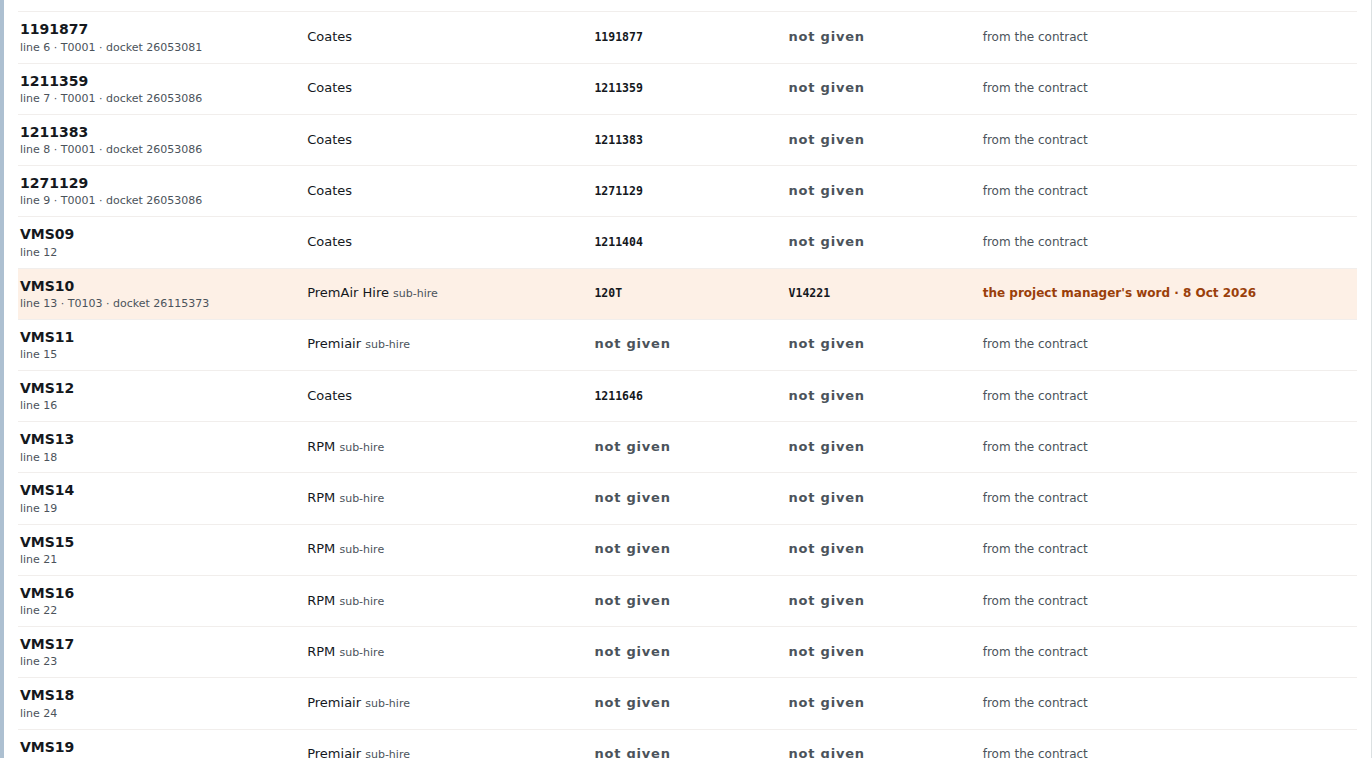
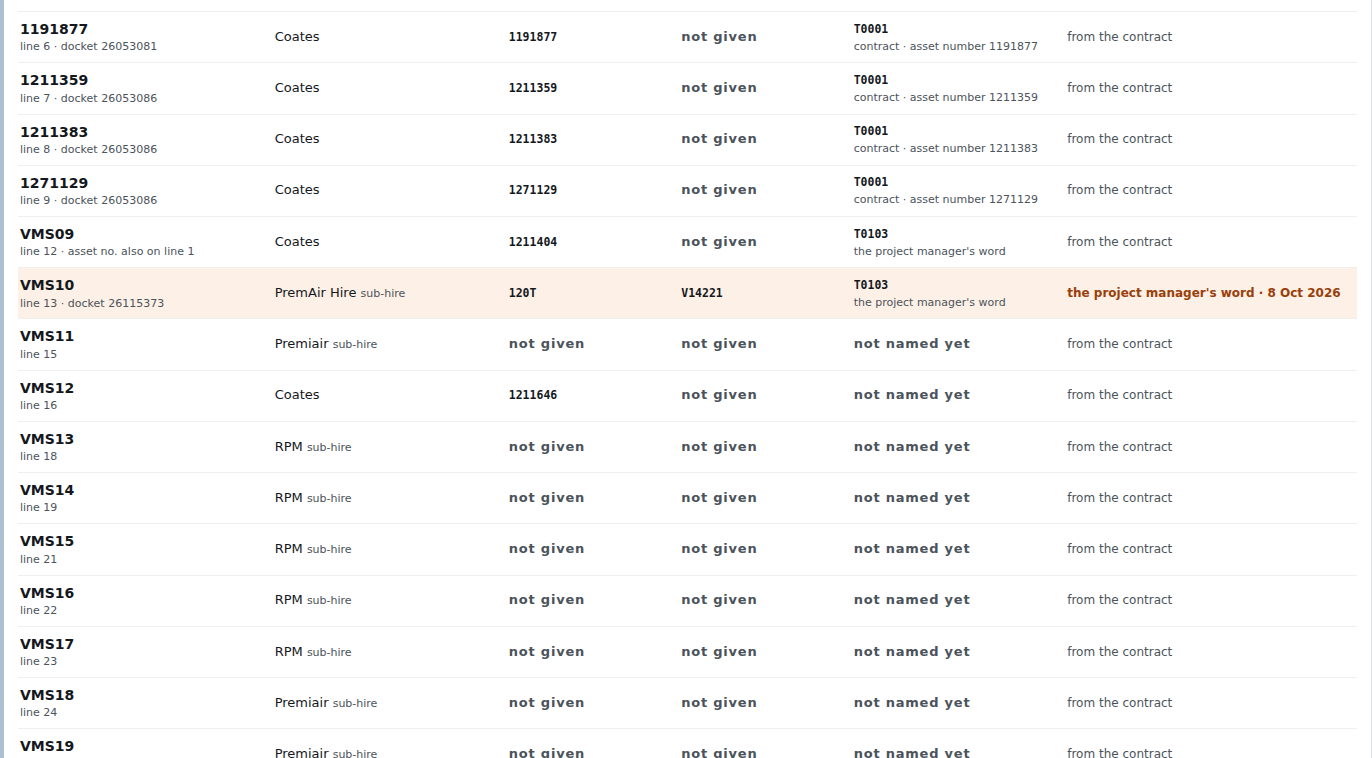
WIP: builds in progress: VMS rego (T0103 boards), part E (not READY)
Claude-Session: https://claude.ai/code/session_01BQwk5iUoysfHRmoPUtnkBd

diff --git a/03_GC500_Delivery_Control/v9.00_crew_vms_counts_DRAFT/patch_v900_lines.py b/03_GC500_Delivery_Control/v9.00_crew_vms_counts_DRAFT/patch_v900_lines.py
@@ -11,18 +11,30 @@
 # rows (T0101 FWF, T0259 Pee Panel) onto the supplier's load and left the toilet blocks (T0102) on Thu 8 Oct. Event Portables
 # units carry no Coates number.
 #
-# The rule (one change, in lineNumbersOf's automatic deal only):
-#   a line whose schedule row the page carries on an Event Portables load (v8.86: date_correction.plan886 on a row of that
-#   item) takes no Coates number in the automatic deal. Everything else stands: a person's choice ("counts as" on the Change
-#   form) is placed first and always wins; v7.68's noted waste tanks next; the rest by room, biggest order first, an ancillary
-#   line losing a tie. Where every line of a reference is on an Event Portables load, nothing is excluded (no number is ever
-#   left without a line). The page cannot tell a supplier any other way per line, so nothing else is excluded.
+# The rule (in lineNumbersOf's automatic deal only):
+#   a line whose every schedule row the page carries on an Event Portables load (v8.86: date_correction.plan886 on each
+#   non-removed row of that item) takes no Coates number (v7.36 locNums: 5 to 8 digits) in the automatic deal, while a line
+#   that can take it has room. A line with a Coates row beside an Event Portables row (WC67's FWF: T0081 and T0262) is not
+#   one the page can tell, so it is not passed over. A number that is not a Coates number, and any number once the Coates
+#   lines are full, goes by v7.32's room order as before (a line counted as none takes none, never more than the order while
+#   another line has room). Everything else stands: a person's choice ("counts as" on the Change form) is placed first and
+#   always wins; v7.68's noted waste tanks next; the rest by room, biggest order first, an ancillary line losing a tie. Where
+#   every line of a reference is on an Event Portables load, nothing is excluded (no number is ever left without a line).
+#
+# And one read that keeps a record showing: a door side recorded against a line before its units were numbered (WC09:
+#   "Toilet Block 6m" loads passenger side, recorded 7 Oct) reads for each numbered unit of that line until the unit has its
+#   own (loading872Side). Scoped to a reference with an Event Portables line, so only WC09 changes; WC86's unread side
+#   (item:Accessible Toilet "not applicable", unread since 1296899 was typed, already so on the base) is for the project
+#   manager, not this patch.
+#
 #   "Ancillary lines dealt last" was surveyed and not taken: on its own it hands WC09's two numbers to FWF (also wrong), and
 #   with the rule above it changes nothing on the record. The smallest rule that is right is this one.
 #
-# Survey (live v9.10, record 4504, read-only): eight references carry more than one charge-line item (WC01, WC05, WC09, WC20,
-# WC27, WC31, WC51, WC60). Under this rule only WC09's split changes. The patch refuses to run if DATA carries another
-# multi-item reference with an Event Portables row on some lines and not others - look at it before shipping.
+# Survey (live v9.10, record 4504; rechecked on record 4508 across all 182 references, read-only): eight references carry
+# more than one charge-line item (WC01, WC05, WC09, WC20, WC27, WC31, WC51, WC60). Under this rule only WC09's split changes,
+# and only WC09's door-side rows. The patch refuses to run if DATA carries another multi-item reference with an Event
+# Portables line beside others - look at it before shipping. (The guard runs at build only; a later data release must
+# rerun it.)
 #
 # Not touched: DATA, the record (read-only), money code, labour keys, the Change form, the footer, every other script
 # (StaffNames910 included).
@@ -45,7 +57,7 @@ assert json.dumps(D, ensure_ascii=False, separators=(',', ':')) == body, 'DATA d
 if 'function epLine909(' in s:
     sys.exit('v9.09 lines part already applied')
 for f in ('function lineNumbersOf(', 'function labourUnits(', 'function ep886Corrected(', 'function lineItemMatch(',
-          'const LAB_ANCILLARY = '):
+          'const LAB_ANCILLARY = ', 'function loading872Side(', 'function loading872Rows(', 'function loading872Record('):
     assert s.count(f) == 1, f'the base must carry {f} once'
 FOOT = re.findall(r" · v(\d+)\.(\d+)'; /\* v8\.19", s)   # the base's own release marker; read, never changed here
 assert len(FOOT) == 1 and (int(FOOT[0][0]), int(FOOT[0][1])) >= (9, 8), f'the base must carry one release footer, v9.08 or later (found {FOOT})'
@@ -59,8 +71,9 @@ def lm(item, label):
 
 
 def ep_line(a, item):
-    return any(e and e.get('movement') != 'remove' and (e.get('date_correction') or {}).get('plan886')
-               and (e.get('item') == item or lm(item, e.get('item'))) for e in a.get('events') or [])
+    # mirrors epLine909: every non-removed row of the item is a v8.86 plan row (a mixed line is not one the page can tell)
+    rows = [e for e in a.get('events') or [] if e and e.get('movement') != 'remove' and (e.get('item') == item or lm(item, e.get('item')))]
+    return bool(rows) and all((e.get('date_correction') or {}).get('plan886') for e in rows)
 
 
 MIXED = {}
@@ -81,10 +94,12 @@ s = rep(s, """ room.sort((x, y) => y.o - x.o || (LAB_ANCILLARY.test(x.item) ? 1 
  nums.filter(n => !taken.has(n)).forEach(n => { const r = room.find(x => x.left > 0) || room[0]; out[r.item].push(n); r.left--; });
  return out;
 }""", """ room.sort((x, y) => y.o - x.o || (LAB_ANCILLARY.test(x.item) ? 1 : 0) - (LAB_ANCILLARY.test(y.item) ? 1 : 0) || x.i - y.i);
- /* v9.09 - a line the plan carries on an Event Portables load takes no Coates number here (WC09: the two 6 m blocks' numbers
+ /* v9.09 - a line the plan carries wholly on an Event Portables load takes no Coates number here (WC09: the two 6 m blocks' numbers
  are the blocks', not the pee panels'); a person's choice above still wins, and a reference with nothing else keeps every line */
  const pool909 = room.filter(x => !epLine909(a, x.item)), deal = pool909.length ? pool909 : room;
- nums.filter(n => !taken.has(n)).forEach(n => { const r = deal.find(x => x.left > 0) || deal[0]; out[r.item].push(n); r.left--; });
+ /* a Coates number (v7.36 locNums: 5 to 8 digits) goes to a line that can take it while one has room; anything else, and any
+ number once those are full, by v7.32's room order (a line counted as none takes none while another has room) */
+ nums.filter(n => !taken.has(n)).forEach(n => { const r = (/^\\d{5,8}$/.test(n) ? deal : room).find(x => x.left > 0) || room.find(x => x.left > 0) || room[0]; out[r.item].push(n); r.left--; });
  return out;
 }
 /* v9.09 - Author: Andrew Fisher. A COATES NUMBER GOES TO A LINE IT CAN BE. the project manager, 8 Oct 2026, on WC09: "We need to
@@ -92,18 +107,25 @@ s = rep(s, """ room.sort((x, y) => y.o - x.o || (LAB_ANCILLARY.test(x.item) ? 1 
  WC09 orders 4 FWF, 6 pee panels and 2 Toilet Block 6m; its two recorded numbers, 1268858 and 1311146, are the two 6 m blocks.
  Dealt biggest order first, both went to the pee panels, so the blocks had one set of ticks for the reference. The FWF and pee
  panels are Event Portables Load 1 (v8.86 moved exactly those rows onto the supplier's load), and Event Portables units carry
- no Coates number. So a line with a schedule row on an Event Portables load is passed over when numbers nobody placed are dealt
- out. The page tells this from the row the plan moved and nothing else: a line it cannot tell is not passed over. */
+ no Coates number. So a line whose schedule rows are on an Event Portables load is passed over when Coates numbers nobody placed
+ are dealt out. The page tells this from the rows the plan moved and nothing else: a line counts only when every row of its item is on
+ the supplier's load; a line with a Coates row beside one (WC67's FWF) is one it cannot tell, and is not passed over. */
 function epLine909(a, item){
- return ((a && a.events) || []).some(e => e && e.movement !== 'remove' && e.date_correction && e.date_correction.plan886
-  && (e.item === item || lineItemMatch(item, e.item)));
+ const rows = ((a && a.events) || []).filter(e => e && e.movement !== 'remove' && (e.item === item || lineItemMatch(item, e.item)));
+ return rows.length > 0 && rows.every(e => e.date_correction && e.date_correction.plan886);
 }""", 'lineNumbersOf: the automatic deal', p)
 
-# ---- the proof: DATA is the base's, byte for byte, the footer is untouched, the helper is defined once and read once
+# ---- 2. loading872Side: a door side recorded against the line reads for its numbered units (nothing recorded is hidden)
+s = rep(s, """function loading872Side(a,id){const m=loading872Record(a.key);return (m[id]&&m[id].side)||'';}""",
+"""function loading872Side(a,id){const m=loading872Record(a.key);if(m[id])return m[id].side||''; /* v9.09 - Author: Andrew Fisher. A door side recorded against a line before its units were numbered (WC09: Toilet Block 6m, passenger side, recorded 7 Oct) reads for each numbered unit of that line until the unit has its own; a unit's own side, set or cleared, wins. Only where the v9.09 deal applies (a reference with an Event Portables line), so no other reference changes */ if(!/^u/.test(String(id))||!chargeLines(a).some(l=>l.item&&epLine909(a,l.item)))return ''; const r=loading872Rows(a).find(x=>x.id===id),it=r&&m['item:'+r.item];return (it&&it.side)||'';}""", 'loading872Side: a line\'s door side reads for its units', p)
+
+# ---- the proof: DATA is the base's, byte for byte, the footer is untouched, the helper is defined once and read twice
 i2 = s.find('const DATA = '); j2 = s.find('\n', i2)
 assert s[i2:j2] == line and s.count('const DATA = ') == 1, 'DATA changed - stopping'
 assert re.findall(r" · v(\d+)\.(\d+)'; /\* v8\.19", s) == FOOT, 'the footer changed - stopping'
-assert s.count('function epLine909(') == 1 and s.count('epLine909(a, x.item)') == 1, 'epLine909 is defined once and read once'
+assert s.count('function epLine909(') == 1 and s.count('epLine909(a, x.item)') == 1 and s.count('epLine909(a,l.item)') == 1, \
+    'epLine909 is defined once and read twice (the deal, the door side)'
 open(p, 'w', encoding='utf-8').write(('' if bom else '') + s)
 print(f'v9.09 lines part on base v{FOOT[0][0]}.{FOOT[0][1]}: Event Portables lines beside others {sorted(MIXED)}; '
-      f'lineNumbersOf deals Coates numbers past them (1 page edit, 1 helper); DATA and footer unchanged')
+      f'lineNumbersOf deals Coates numbers past them, loading872Side reads a line\'s door side for its units (2 page edits, 1 helper); '
+      f'DATA and footer unchanged')

diff --git a/03_GC500_Delivery_Control/v9.13_vms_rego_DRAFT/patch_v913_vms_rego.py b/03_GC500_Delivery_Control/v9.13_vms_rego_DRAFT/patch_v913_vms_rego.py
@@ -19,8 +19,8 @@
 #    opening, viewing or printing;
 #  - a board is on a delivery by (in this order) the record, the project manager's word, or the contract (the line's match
 #    by asset number or delivery docket). Nothing is guessed: a VMS delivery no board is linked to says "boards not named yet";
-#  - the boards BY NAME, with fleet number and rego, wherever a VMS delivery is shown: the Timeline load card, the delivery
-#    cards (Timeline and Today), the drawer's Delivery card, the driver drop card, the printed drop sheet, the Drivers and
+#  - the boards BY NAME, with fleet number and rego, wherever a VMS delivery is shown: the Timeline load card and its
+#    "Every day" row, the delivery cards (Timeline and Today), the drawer's Delivery card, the driver drop card, the printed drop sheet, the Drivers and
 #    Install PDFs (run sheets), the installers' daily page, and the driver's text (short and full).
 # The VMS plan reconciliation (VMS001-26003-01, 24 numbered boards) stays open with the project manager; nothing is renumbered.
 #
@@ -35,7 +35,7 @@ if 'function vms913Mount(' in text or 'vmsboard' in text:
     sys.exit('v9.13 is already applied - stopping')
 for need in ('function subhire744One(', 'function eq796(', 'function eq796Fold(', 'const SYNC_COLLS = {', 'function mergeRecords(',
              'function plantLineOf(', 'function text747What(', 'function dropText(', 'function deliveryCard(', 'function daily821Model(',
-             'function bookingNosLine801(', 'function loading872AssetHtml(', 'function dpTruckBefore801(', 'StaffNames910'):
+             'function bookingNosLine801(', 'function loading872AssetHtml(', 'function dpTruckBefore801(', 'function dayRows(', 'StaffNames910'):
     if need not in text:
         sys.exit('the base is missing ' + need + ' - stopping')
 
@@ -312,9 +312,14 @@ LATE = r'''<script id="vms913-script">
  const tl = loading872AssetHtml; loading872AssetHtml = function(a){ const h = tl.apply(this, arguments); try { return h + vms913LoadHtml(a, 'tl'); } catch (e) { return h; } };
  /* the delivery cards (Timeline loads opened, Today): under "Asset no." */
  const nos = bookingNosLine801; bookingNosLine801 = function(a){ const h = nos.apply(this, arguments); try { const L = vms913LoadHtml(a, 'dc'); return L ? (h || '<span class="todo">none supplied</span>') + '<br>' + L : h; } catch (e) { return h; } };
- /* the drawer's Delivery card, under its heading */
- const dc = deliveryCard; deliveryCard = function(a){ const h = dc.apply(this, arguments); try { const L = vms913LoadHtml(a, 'dcard'), k = '<h3>Delivery</h3>', i = h.indexOf(k);
-  return L && i >= 0 && h.indexOf(k, i + 1) < 0 ? h.slice(0, i + k.length) + '<p class="vms913dcard">' + L + '</p>' + h.slice(i + k.length) : h; } catch (e) { return h; } };
+ /* the drawer's Delivery card: under its rental lines (the part of the card the drawer keeps); a VMS delivery with no
+    rental line is named on the drawer's Driver drop card instead */
+ const dc = deliveryCard; deliveryCard = function(a){ const h = dc.apply(this, arguments); try { const L = vms913LoadHtml(a, 'dcard'), k = 'On hire — Coates rental system</div>', i = h.indexOf(k), j = i >= 0 ? h.indexOf('</ul>', i) : -1;
+  return L && j > i && h.indexOf(k, i + 1) < 0 ? h.slice(0, j + 5) + '<p class="vms913dcard">' + L + '</p>' + h.slice(j + 5) : h; } catch (e) { return h; } };
+ /* the Timeline's "Every day" rows: under the asset numbers in the GC500 ID cell */
+ const dr = dayRows; dayRows = function(rows){ let h = dr.apply(this, arguments); try { (rows || []).forEach(r => { const L = r && r.a && vms913LoadHtml(r.a, 'row'); if (!L) return;
+  const i = h.indexOf('data-k="' + esc(r.a.key) + '"'), j = i >= 0 ? h.indexOf('<div class="anos">', i) : -1, k = j >= 0 ? h.indexOf('</div>', j) : -1;
+  if (k > j && j > i) h = h.slice(0, k) + L + h.slice(k); }); } catch (e) {} return h; };
  /* the Drivers and Install PDFs (the run sheets): a line per VMS delivery on the truck */
  const tr = dpTruck; dpTruck = function(g){ const h = tr.apply(this, arguments); try { return h + ((g && g.rows) || []).map(r => vms913TruckHtml(r.a)).join(''); } catch (e) { return h; } };
  /* the driver's text: the boards after what it is (plain characters, so it stays three texts) */
@@ -357,7 +362,7 @@ CSS = '''
 .vms913load b{font-weight:700}
 .vms913load small{font-size:11px;opacity:.8}
 .vms913load.tl{margin-top:4px}
-.vms913dcard{margin:0 0 10px;color:var(--orange-ink)}
+.vms913dcard{margin:6px 0 0;color:var(--orange-ink)}
 @media (max-width:720px){
  .vms913row,.vms913list.ed .vms913row{grid-template-columns:1fr 1fr;gap:4px 10px;padding:10px 2px}
  .vms913row.head{display:none}
